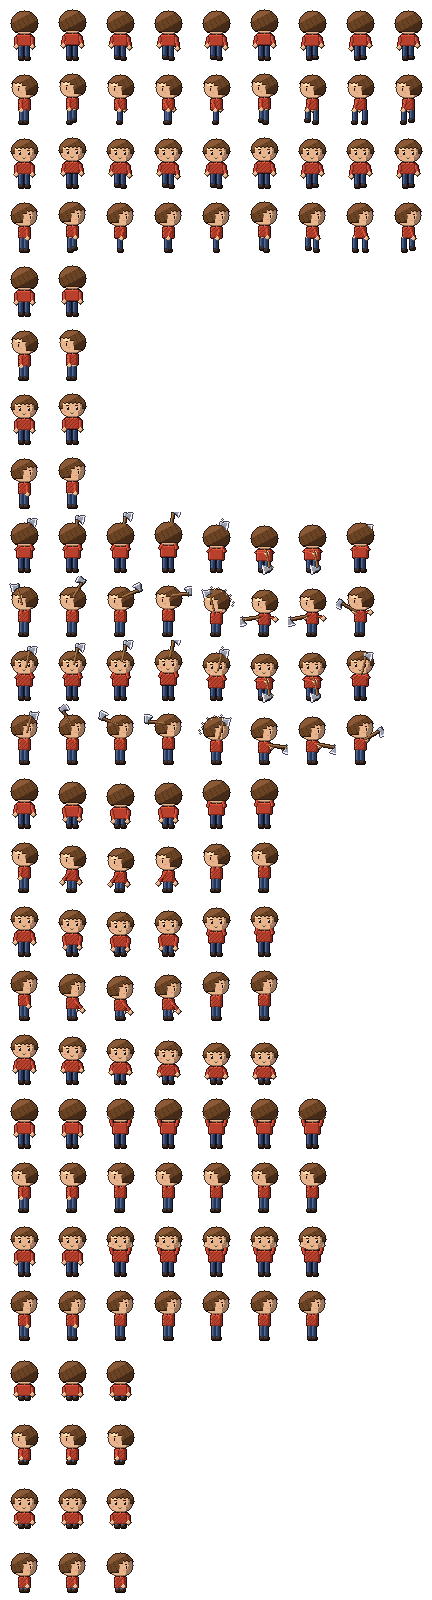
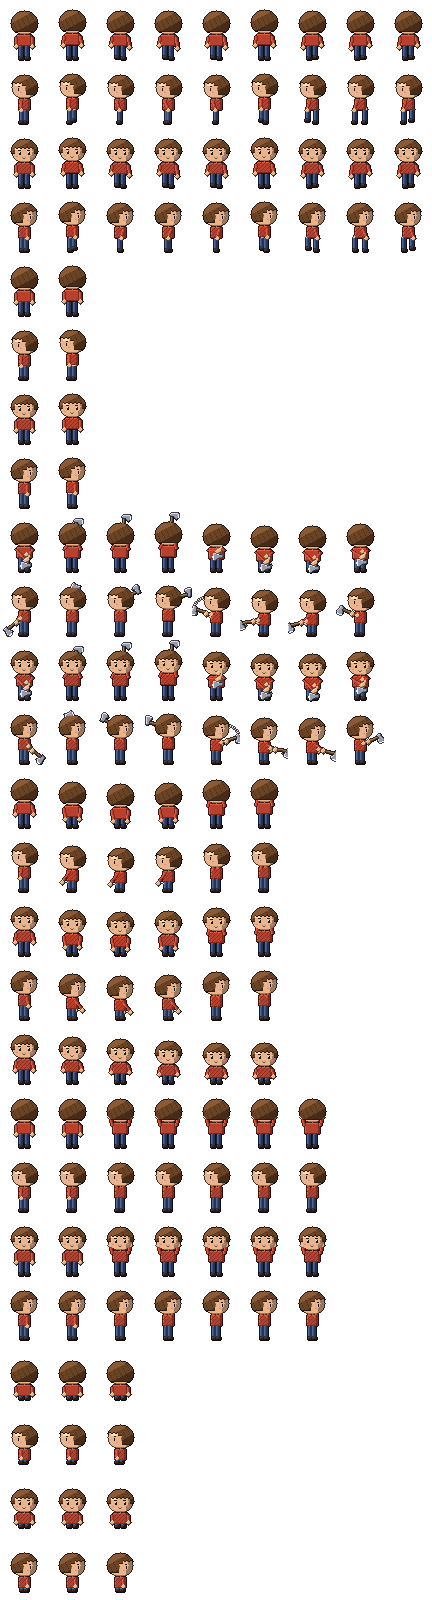
2D: chopping/mining/hoeing swing rebuilt: tool behind the head on the wind-up, both hands on the haft, clean swing trail, body dips on impact, held impact frame with eased timing, foreshortened front swing, mirrored back arm fix
Claude-Session: https://claude.ai/code/session_01P6pGQCq2oe4GSAnTdGYxNB

diff --git a/hollow-acre/2d/tools/px/chibi.js b/hollow-acre/2d/tools/px/chibi.js
@@ -31,7 +31,7 @@ function human(dir,pose){
   const arm=(sx,swing,up,hand)=>{let ex=sx+(up?swing*.4:swing*.3),ey=up?armY-9:armY+8+(pose.crouch?-2:0);if(hand){ex=sx+hand[0];ey=armY+hand[1];}limb(sx,armY,ex,ey,3,SHT);blob(Math.round(ex),Math.round(ey)+1,2,2,SK);};
   const back=dir==='N';
   // order: back arm, legs, torso, front arm, head
-  if(side)arm(hx-fl*2,-(pose.swing||0)*fl,pose.up,pose.handB);
+  if(side)arm(hx-fl*2,-(pose.swing||0)*fl,pose.up,pose.handB&&[pose.handB[0]*fl,pose.handB[1]]);
   drawLegs();
   // torso (with skirt / coat / overalls)
   const ty=torsoTop+bob+(pose.crouch||0);box(tx,ty,tw,torsoH,SHT);
@@ -45,7 +45,7 @@ function human(dir,pose){
   if(!side){arm(tx-1,-(pose.swing||0),pose.up,pose.handL);arm(tx+tw,(pose.swing||0),pose.up,pose.handR);}
   else arm(hx+fl*3,(pose.swing||0)*fl,pose.up,pose.handF&&[pose.handF[0]*fl,pose.handF[1]]);
   pose.toolArgs=[hx,armY,dir,fl];
-  if(pose.tool&&dir==='N')pose.tool(hx,armY,dir,fl);
+  if(pose.tool&&(dir==='N'||pose.toolBack))pose.tool(hx,armY,dir,fl);
   // head: soft-shaded skin, then face, then hair framing it
   const R=kid?11:12,RY=kid?10:11;
   for(let y=-RY;y<=RY;y++)for(let x=-R;x<=R;x++){const d=(x*x)/(R*R)+(y*y)/(RY*RY);if(d>1)continue;
@@ -63,7 +63,7 @@ function human(dir,pose){
       if(C.glasses){for(let i=-2;i<=2;i++)p(ex+i,ey-2,[110,110,122]);p(ex-fl*3,ey-1,[110,110,122]);}
       if(C.beard){for(let y=ey+3;y<=hy+RY;y++)for(let x=-1;x<=R;x++){const px=hx+x*fl;if((x*x)/(R*R)+((y-hy)*(y-hy))/(RY*RY)>1)continue;p(px,y,HR[(x+y)%4===0?1:2]);}}}}
   hair(hx,hy,R,RY,dir,fl);
-  if(pose.tool&&dir!=='N'&&pose.toolArgs)pose.tool(...pose.toolArgs);
+  if(pose.tool&&dir!=='N'&&!pose.toolBack&&pose.toolArgs)pose.tool(...pose.toolArgs);
   if(C.hat)hat(hx,hy,R,RY,dir);
 }
 function hair(hx,hy,R,RY,dir,fl){const st=C.hairStyle||'short';const R1=R+1,RY1=RY+1;
@@ -113,36 +113,38 @@ function hollowBody(dir,pose){
 // ---------- tools
 const HOE=(hx,ay,dir,fl,t)=>{};
 // ---- tools: a shaded wooden haft and a steel head, rotated with the swing. Angles are screen angles for a farmer facing east (0 = straight ahead, -90 = straight up)
-const SWING={hoe:[-70,-115,-150,-168,-70,38,34,-20],pick:[-70,-115,-150,-168,-70,40,36,-20],axe:[-75,-120,-155,-172,-75,8,12,-30]};
+// ---- tool swings, 8 frames: ready, lift, wind-up, full wind-up (held), downswing, impact, impact hold, recover.
+// Side view (facing east, mirrored for west): screen angle of the haft, grip relative to the shoulder, and whether the tool is behind the head.
+const SWING={axe:[40,-105,-150,-170,-20,10,16,-25],pick:[45,-105,-150,-170,-10,45,48,-20],hoe:[45,-105,-150,-170,-10,48,50,-20]};
+const GRIP={axe:[[5,6],[-1,-10],[-3,-14],[-4,-15],[6,0],[7,4],[7,5],[4,1]],pick:[[5,6],[-1,-10],[-3,-14],[-4,-15],[6,1],[6,5],[6,6],[4,2]],hoe:[[5,6],[-1,-10],[-3,-14],[-4,-15],[6,1],[6,5],[6,6],[4,2]]};
+const FGRIP=[[2,6],[1,-12],[1,-16],[1,-17],[2,-4],[2,5],[2,6],[2,2]];
+const BACK=[0,1,1,1,0,0,0,0];
 const TLEN={hoe:20,pick:18,axe:18};
-function gripOf(kind,f,front){const a=SWING[kind][f]*Math.PI/180;const lift=f>=1&&f<=3?10+f*2:f===0?4:0;return front?[2,f<=3?-12-f*3:Math.round(Math.sin(a)*10)-1]:[Math.round(1+Math.cos(a)*6),Math.round(Math.sin(a)*7)-lift];}
+function gripOf(kind,f,front){return front?FGRIP[f]:GRIP[kind][f];}
 function toolFor(kind,f,dir){if(!kind)return null;return (hx,ay,dir,fl)=>{const side=dir==='E'||dir==='W';
   const WOOD=[[52,32,18],[92,58,32],[134,88,50],[170,122,74]],STEEL=[[44,48,58],[86,92,106],[150,156,170],[212,218,228]];
-  if(kind==='hoe'||kind==='pick'||kind==='axe'){const a=SWING[kind][f]*Math.PI/180,L=TLEN[kind],front=!side;const [gdx,gdy]=gripOf(kind,f,front);
+  if(kind==='hoe'||kind==='pick'||kind==='axe'){const a=SWING[kind][f]*Math.PI/180,front=!side;let L=TLEN[kind];const [gdx,gdy]=gripOf(kind,f,front);
     const gx=hx+(front?gdx:fl*gdx),gy=ay+gdy;
-    // direction of the haft: in side view it's the swing angle; seen from the front/back it is foreshortened to (almost) vertical
-    let dx,dy;if(side){dx=Math.cos(a)*fl;dy=Math.sin(a);}else{const s2=Math.sin(a);dx=.22;dy=s2<0?-1:1;const n=Math.hypot(dx,dy);dx/=n;dy/=n;}
-    const px=-dy*(side?fl:1),py=dx*(side?fl:1);              // the side the blade faces
-    const hd=front&&Math.sin(a)>0?1.25:1;                     // coming toward you: the head looks bigger
-    const inHead=(u,v)=>{if(kind==='hoe')return u>L-2.5&&u<L+.6&&v>-.8&&v<6.5*hd;
+    let dx,dy;if(side){dx=Math.cos(a)*fl;dy=Math.sin(a);}else{dx=.2;dy=(f>=1&&f<=3)?-1:1;const n=Math.hypot(dx,dy);dx/=n;dy/=n;}
+    const px=-dy*(side?fl:1),py=dx*(side?fl:1);const hd=front&&dy>0?1.25:1;if(front&&dy>0)L=Math.round(L*.62);
+    const inHead=(u,v)=>{
+      if(kind==='hoe')return u>L-2.5&&u<L+.6&&v>-.8&&v<6.5*hd;
       if(kind==='pick'){const c=Math.abs(v)*.28;const th=Math.abs(v)>5?1.1:1.8;return Math.abs(v)<7.5*hd&&u>L-th-c&&u<L+.6-c;}
-      if(kind==='axe'){if(v<-2.2||v>6*hd)return false;const fl2=v>1?(v-1)*.55:0;return u>L-3.5-fl2&&u<L+.6+fl2*.6;}return false;};
+      if(kind==='axe'){if(v<-2.5||v>6.5*hd)return false;if(v<=1)return u>L-3&&u<L+.6;const t=v-1;const lo=L-3-t*.7,hi=L+.6+t*.35;const edge=6.5*hd-Math.pow(u-(L-1.2),2)*.12;return u>lo&&u<hi&&v<edge;}return false;};
     const M=new Map();const R=L+10;
-    for(let y=-R;y<=R;y++)for(let x=-R;x<=R;x++){const u=x*dx+y*dy,v=x*px+y*py;let k=null;
-      if(inHead(u,v))k='s';else if(u>-2.5&&u<L-1&&Math.abs(v)<1.15)k='w';if(k)M.set(x+','+y,k);}
-    // shade each pixel by which neighbours are empty: lit from the upper left, dark on the lower right
+    for(let y=-R;y<=R;y++)for(let x=-R;x<=R;x++){const u=x*dx+y*dy,v=x*px+y*py;let k=null;if(inHead(u,v))k='s';else if(u>-2.5&&u<L-1&&Math.abs(v)<1.15)k='w';if(k)M.set(x+','+y,k);}
+    // the swing trail: a clean double arc from the wind-up to here, kept behind the head
+    if(f===4&&side){const a0=SWING[kind][3]*Math.PI/180;for(let i=0;i<=24;i++){const aa=a0+(a-a0)*i/24;for(const [rr,c] of [[L+1,[244,238,222]],[L,[206,198,180]]]){const X=Math.round(gx+Math.cos(aa)*fl*rr),Y=Math.round(gy+Math.sin(aa)*rr);if(i>3&&Math.hypot(X-hx,Y-(ay-14))>14)p(X,Y,c);}}}
     for(const [key,k] of M){const [x,y]=key.split(',').map(Number);const up=!M.has(x+','+(y-1)),lf=!M.has((x-1)+','+y),dn=!M.has(x+','+(y+1)),rt=!M.has((x+1)+','+y);
       const R2=k==='s'?STEEL:WOOD;let c=R2[2];if(up||lf)c=R2[3];if(dn||rt)c=R2[1];if(dn&&rt)c=R2[0];
-      if(k==='s'&&kind!=='pick'){const v=x*px+y*py;if(v>(kind==='hoe'?5.5:4.8)*hd)c=[236,240,246];}
+      if(k==='s'){const v=x*px+y*py;if(kind!=='pick'&&v>(kind==='hoe'?5.5:5.4)*hd)c=[238,242,248];}
       p(gx+x,gy+y,c);}
-    // a band where the head meets the haft, and the end of the grip
     for(let t=-1;t<=1;t++)p(Math.round(gx+dx*(L-3)+px*t),Math.round(gy+dy*(L-3)+py*t),STEEL[0]);
-    // motion smear behind the head on the fast downswing frame
-    if(f===4){const a0=SWING[kind][3]*Math.PI/180,a1=a;for(let i=0;i<=10;i++){const aa=a0+(a1-a0)*i/10;for(const rr of [L+1,L+3]){
-      const sxp=side?Math.cos(aa)*fl:.2,syp=side?Math.sin(aa):Math.sin(aa)>0?1:-1;const X=Math.round(gx+sxp*rr),Y=Math.round(gy+syp*rr);if(!M.has((X-gx)+','+(Y-gy))&&i%2===(rr>L+2?1:0))p(X,Y,i>6?[244,236,214]:[208,200,180]);}}}
-    // dirt / wood chips kicked up on impact
+    // both hands on the haft when it's in front of you: one at the butt, one a little up the handle
+    if(!BACK[f]||!side){for(const u of [-1,4]){const hxp=Math.round(gx+dx*u),hyp=Math.round(gy+dy*u);blob(hxp,hyp,2,2,SK);}}
+    // chips at the moment of impact
     if(f===5){const hx2=Math.round(gx+dx*L+px*3),hy2=Math.round(gy+dy*L+py*3);const col=kind==='hoe'?[[96,62,36],[140,98,60]]:kind==='pick'?[[128,124,136],[196,192,204]]:[[160,118,66],[214,174,112]];
-      for(let i=0;i<6;i++)p(hx2+(i-3)*2+(i%2),hy2-1-(i%3),col[i%2]);}}
+      for(let i=0;i<7;i++)p(hx2+(i-3)*2*(side?fl:1)+(i%2),hy2-1-(i%3)-(i>4?2:0),col[i%2]);}}
   if(kind==='can'){const G2=[[30,66,40],[50,104,58],[78,146,80],[132,196,122]];const tilt=f>=3&&f<=6;const cx=hx+(side?fl*10:9),cy=ay+5-(f>=1?2:0);
     for(let y=-5;y<=5;y++)for(let x=-6;x<=6;x++){const d=x*x/36+y*y/25;if(d>1)continue;const l=-x/6*.5-y/5*.7;p(cx+x,cy+y,G2[d>.8?(l>0?2:0):l>.3?3:l>-.3?2:1]);}
     for(let x=-5;x<=5;x++)p(cx+x,cy-6,G2[x<0?3:2]);for(let i=0;i<9;i++){const aa=Math.PI+i/8*Math.PI;p(cx+Math.round(Math.cos(aa)*5),cy-7+Math.round(Math.sin(aa)*4),G2[1]);}
@@ -160,9 +162,10 @@ ROWS.forEach(([clip,dir,nf],r)=>{for(let f=0;f<nf;f++){
   if(clip==='thrust'){ // hoe: wind up over the head, chop down, crouch on impact; can: lift, tilt, pour, lower
     const k=f/(nf-1);pose.tool=toolFor(CFG.tool,f,dir);
     if(CFG.tool==='can'){pose.handL=[-1,5];pose.handR=[side?5:6,f<2?4:2];pose.handF=[6,f<2?4:2];pose.crouch=f>=3&&f<=6?1:0;}
-    else{const kind=CFG.tool;pose.crouch=f===5?3:f===4||f===6?2:f===3?0:0;pose.bob=f===3?-1:0;
-      const [gx,gy]=gripOf(kind,f,!side);
-      if(side){pose.handF=[gx-3,gy];pose.handB=[gx+2,gy+1];}else{const tx=-(15>>1);pose.handL=[gx-(tx-1),gy];pose.handR=[gx-(tx+15)+1,gy];}}}
+    else{const kind=CFG.tool;pose.crouch=[0,0,0,0,1,3,3,1][f];pose.bob=f===3?-1:0;pose.toolBack=!!BACK[f];
+      const [gx,gy]=gripOf(kind,f,!side);const a=SWING[kind][f]*Math.PI/180;
+      if(side){pose.handF=[gx-3+Math.round(Math.cos(a)*4),gy+Math.round(Math.sin(a)*4)];pose.handB=[gx+2-1,gy+1];}
+      else{const tx=-(15>>1);pose.handL=[gx-(tx-1)-1,gy+(BACK[f]?0:4)];pose.handR=[gx-(tx+15)+2,gy];}}}
   if(clip==='slash'){ // pick: crouch, reach down, grab, stand and lift the crop overhead
     const cr=[0,3,5,4,1,0][f];pose.crouch=cr;const reach=f>=1&&f<=3;const lift=f>=4;
     pose.handL=reach?[1,10]:lift?[2,-10]:[-1,8];pose.handR=reach?[-1,10]:lift?[-2,-10]:[1,8];pose.handF=reach?[7,9]:lift?[2,-11]:[1,8];pose.handB=reach?[5,9]:lift?[0,-10]:[0,7];}

diff --git a/hollow-acre/2d/index.html b/hollow-acre/2d/index.html
@@ -853,7 +853,7 @@ function computeContext(){let best=null,bd=1e9;
   if(!c.watered)return S.water>0?{label:'Water',ok:true,act:()=>doWater(t)}:{label:'Can empty',ok:false};
   return {label:'Growing '+Math.floor(c.growth/(SEEDS[c.type].grow*3)*100)+'%',ok:false};}
 function faceTo(x,z){const dx=x-P.x,dz=z-P.z,d=Math.hypot(dx,dz)||1;P.fx=dx/d;P.fz=dz/d;P.dir=dirOf(dx,dz);}
-function startAnim(clip,dur,t,fire){P.anim={clip,dur,t:0,fire,fired:false};if(t)faceTo(t.x,t.z);}
+function startAnim(clip,dur,t,fire){if(clip==='hoe'||clip==='pick'||clip==='axe')dur=Math.max(dur,.72);P.anim={clip,dur,t:0,fire,fired:false};if(t)faceTo(t.x,t.z);}
 function doTill(t){startAnim('hoe',.7,t,()=>{t.tilled=true;S.everTilled=true;SFX.till();burst(t.x,t.z,14,'#6a4a30',1.6,.6,2);cam.shake=Math.max(cam.shake,.12);});}
 function doPlant(t){if(S.seeds[S.sel]<=0)return;const type=S.sel;startAnim('pick',.7,t,()=>{if(t.crop||S.seeds[type]<=0)return;S.seeds[type]--;S.everPlanted=true;t.crop={type,stage:0,growth:0,watered:false,pop:0};SFX.plant();
   burst(t.x,t.z,6,'#d8c890',.6,.5,1);if(S.seeds[S.sel]<=0){const o=S.sel==='turnip'?'pumpkin':'turnip';if(S.seeds[o]>0)S.sel=o;}});}
@@ -1121,7 +1121,8 @@ function render(dt,now){const t=now/1000;
     else if(d.npc){const n=d.npc;const X=sx(n.x),Y=sz(n.z);shadow(X,Y,9);drawSpr(n.def.id,X,Y,'walk',n.dir,n.clip==='walk'?frameOf(n.def.id,'walk',n.t):0);mindNPCOver(n,X,Y);
       if(n.clip==='stand'&&S.day>=2&&nightK>.5){ctx2.fillStyle='#ff2a14';const ey=Math.round(Y-35);ctx2.fillRect(Math.round(X)-3,ey,1,1);ctx2.fillRect(Math.round(X)+2,ey,1,1);}}
     else if(d.player){const X=sx(P.x),Y=sz(P.z);shadow(X,Y,9);let nm='farmer',clip=P.clip,f;
-      if(P.anim){const a=P.anim;if(a.clip==='hoe'||a.clip==='pick'||a.clip==='axe'){nm='farmer_'+a.clip;clip='thrust';}else if(a.clip==='water'){nm='farmer_can';clip='thrust';}else clip='slash';f=frameOf(nm,clip,a.t,a.dur);}
+      if(P.anim){const a=P.anim;if(a.clip==='hoe'||a.clip==='pick'||a.clip==='axe'){nm='farmer_'+a.clip;clip='thrust';}else if(a.clip==='water'){nm='farmer_can';clip='thrust';}else clip='slash';f=frameOf(nm,clip,a.t,a.dur);
+        if(a.clip==='hoe'||a.clip==='pick'||a.clip==='axe'){const k=a.t/a.dur,TH=[.08,.2,.34,.48,.55,.74,.86];f=TH.findIndex(v=>k<v);if(f<0)f=7;}}
       else{if(clip==='idle'){clip='walk';f=0;}else f=frameOf(nm,clip,P.t);}
       if(S.mode==='scare')clip='hurt';P._fr=[nm,clip,clip==='hurt'?'S':P.dir,f||0];
       drawSpr(nm,X,Y,clip,clip==='hurt'?'S':P.dir,clip==='hurt'?Math.min(5,Math.floor((performance.now()/120)%6)):f);

diff --git a/hollow-acre/2d/src/main.js b/hollow-acre/2d/src/main.js
@@ -88,7 +88,8 @@ function render(dt,now){const t=now/1000;
     else if(d.npc){const n=d.npc;const X=sx(n.x),Y=sz(n.z);shadow(X,Y,9);drawSpr(n.def.id,X,Y,'walk',n.dir,n.clip==='walk'?frameOf(n.def.id,'walk',n.t):0);mindNPCOver(n,X,Y);
       if(n.clip==='stand'&&S.day>=2&&nightK>.5){ctx2.fillStyle='#ff2a14';const ey=Math.round(Y-35);ctx2.fillRect(Math.round(X)-3,ey,1,1);ctx2.fillRect(Math.round(X)+2,ey,1,1);}}
     else if(d.player){const X=sx(P.x),Y=sz(P.z);shadow(X,Y,9);let nm='farmer',clip=P.clip,f;
-      if(P.anim){const a=P.anim;if(a.clip==='hoe'||a.clip==='pick'||a.clip==='axe'){nm='farmer_'+a.clip;clip='thrust';}else if(a.clip==='water'){nm='farmer_can';clip='thrust';}else clip='slash';f=frameOf(nm,clip,a.t,a.dur);}
+      if(P.anim){const a=P.anim;if(a.clip==='hoe'||a.clip==='pick'||a.clip==='axe'){nm='farmer_'+a.clip;clip='thrust';}else if(a.clip==='water'){nm='farmer_can';clip='thrust';}else clip='slash';f=frameOf(nm,clip,a.t,a.dur);
+        if(a.clip==='hoe'||a.clip==='pick'||a.clip==='axe'){const k=a.t/a.dur,TH=[.08,.2,.34,.48,.55,.74,.86];f=TH.findIndex(v=>k<v);if(f<0)f=7;}}
       else{if(clip==='idle'){clip='walk';f=0;}else f=frameOf(nm,clip,P.t);}
       if(S.mode==='scare')clip='hurt';P._fr=[nm,clip,clip==='hurt'?'S':P.dir,f||0];
       drawSpr(nm,X,Y,clip,clip==='hurt'?'S':P.dir,clip==='hurt'?Math.min(5,Math.floor((performance.now()/120)%6)):f);

diff --git a/hollow-acre/2d/src/game.js b/hollow-acre/2d/src/game.js
@@ -158,7 +158,7 @@ function computeContext(){let best=null,bd=1e9;
   if(!c.watered)return S.water>0?{label:'Water',ok:true,act:()=>doWater(t)}:{label:'Can empty',ok:false};
   return {label:'Growing '+Math.floor(c.growth/(SEEDS[c.type].grow*3)*100)+'%',ok:false};}
 function faceTo(x,z){const dx=x-P.x,dz=z-P.z,d=Math.hypot(dx,dz)||1;P.fx=dx/d;P.fz=dz/d;P.dir=dirOf(dx,dz);}
-function startAnim(clip,dur,t,fire){P.anim={clip,dur,t:0,fire,fired:false};if(t)faceTo(t.x,t.z);}
+function startAnim(clip,dur,t,fire){if(clip==='hoe'||clip==='pick'||clip==='axe')dur=Math.max(dur,.72);P.anim={clip,dur,t:0,fire,fired:false};if(t)faceTo(t.x,t.z);}
 function doTill(t){startAnim('hoe',.7,t,()=>{t.tilled=true;S.everTilled=true;SFX.till();burst(t.x,t.z,14,'#6a4a30',1.6,.6,2);cam.shake=Math.max(cam.shake,.12);});}
 function doPlant(t){if(S.seeds[S.sel]<=0)return;const type=S.sel;startAnim('pick',.7,t,()=>{if(t.crop||S.seeds[type]<=0)return;S.seeds[type]--;S.everPlanted=true;t.crop={type,stage:0,growth:0,watered:false,pop:0};SFX.plant();
   burst(t.x,t.z,6,'#d8c890',.6,.5,1);if(S.seeds[S.sel]<=0){const o=S.sel==='turnip'?'pumpkin':'turnip';if(S.seeds[o]>0)S.sel=o;}});}
